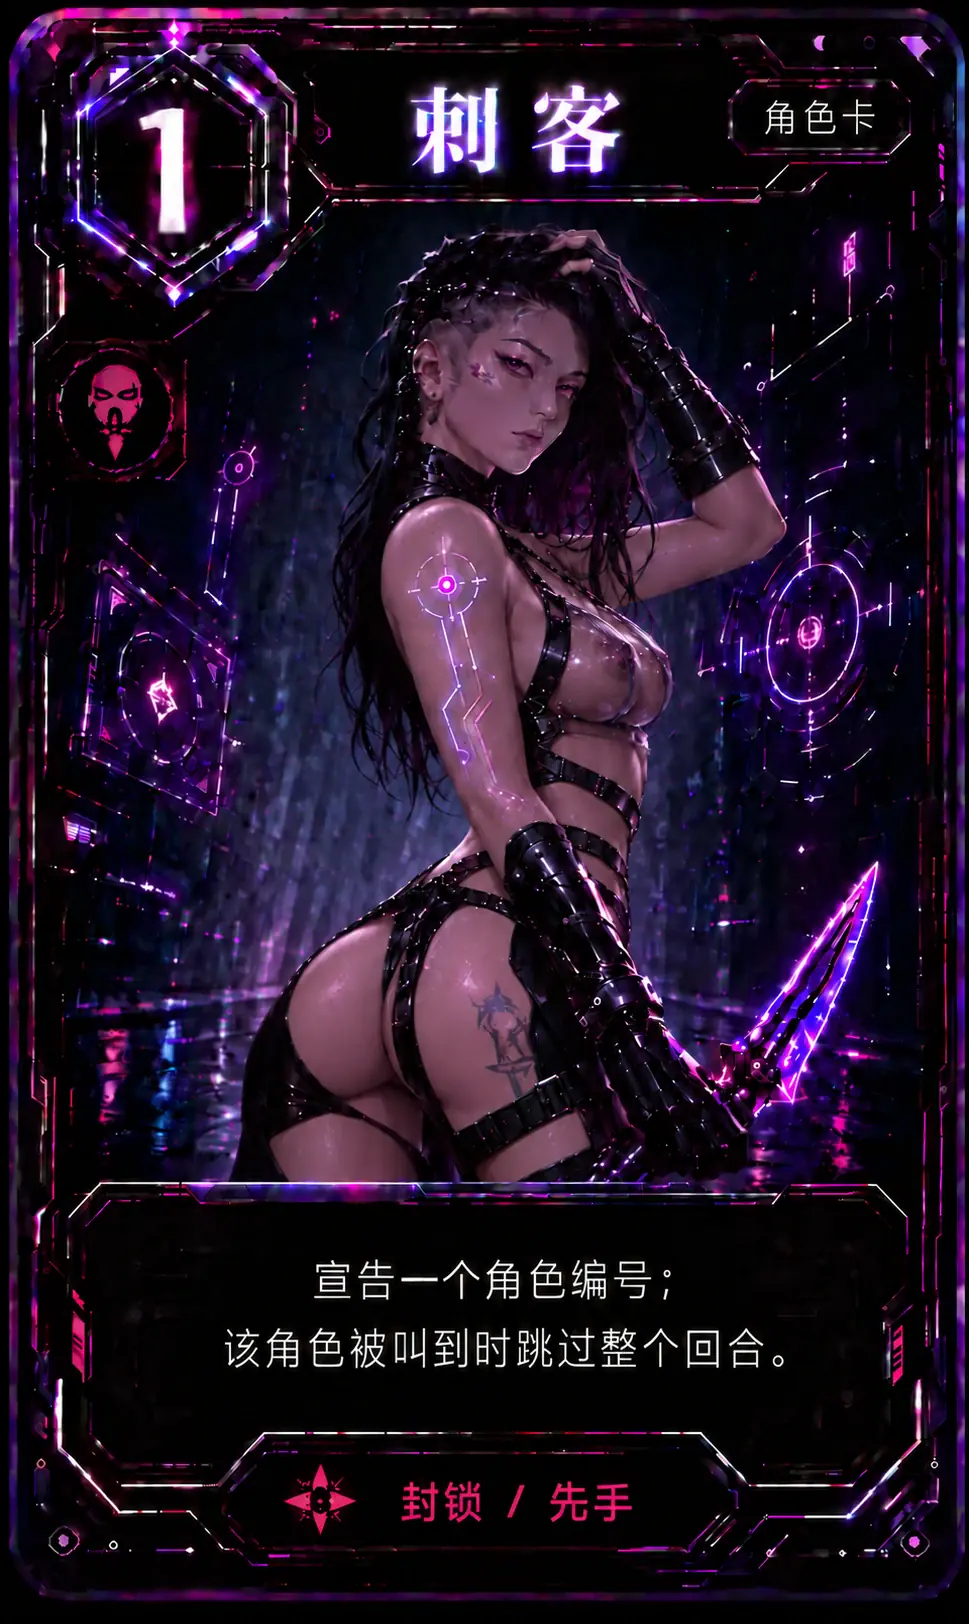
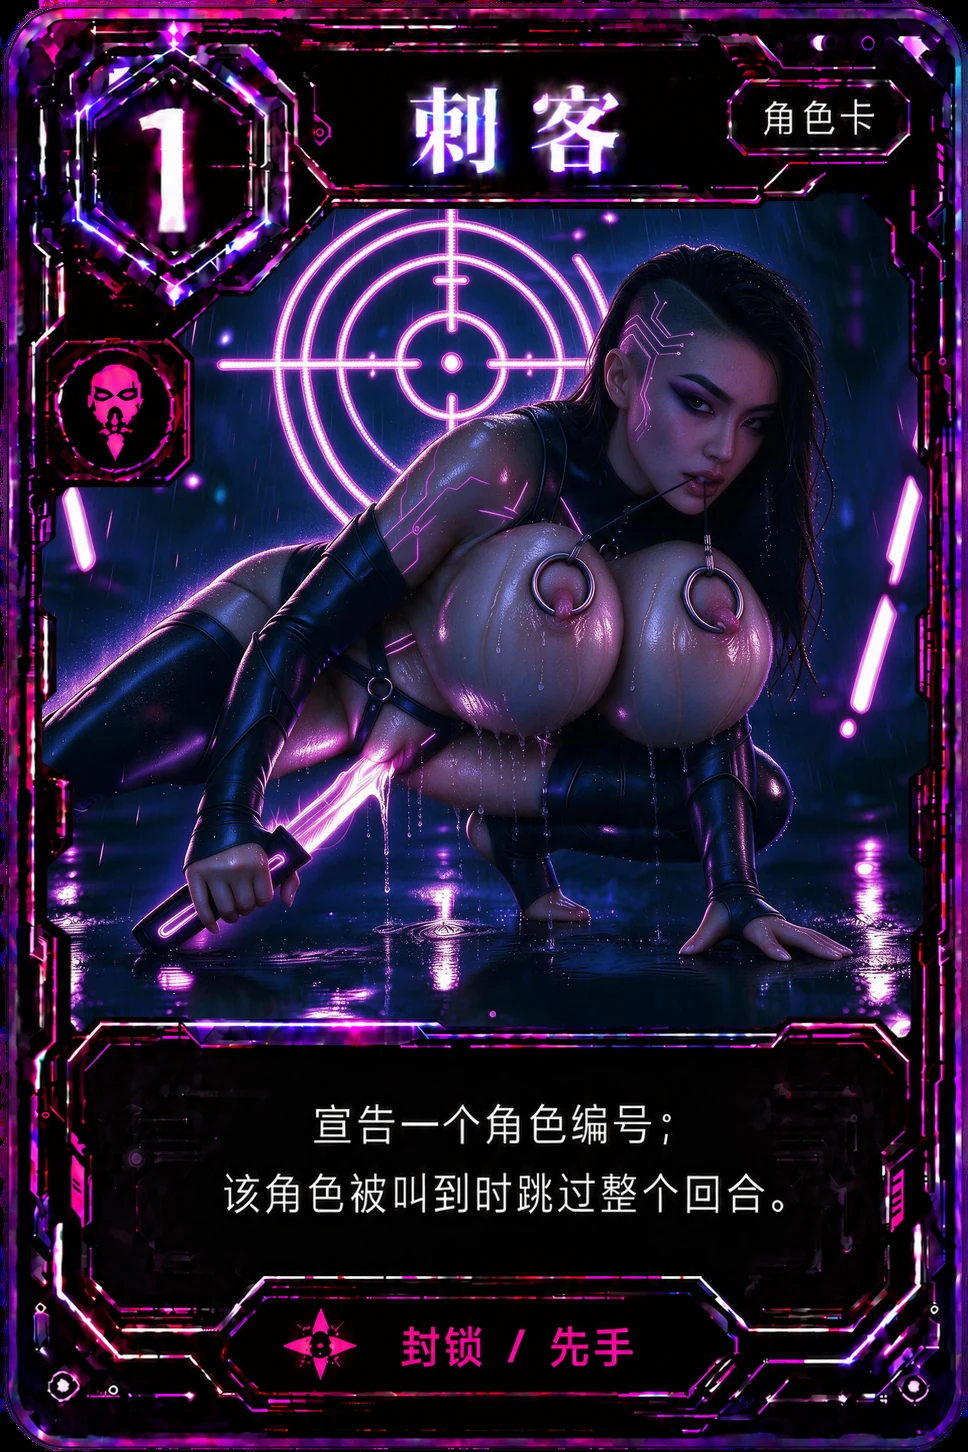
feat(theme): 更新刺客角色卡立绘

diff --git a/public/themes/neon/manifest.js b/public/themes/neon/manifest.js
@@ -24,13 +24,14 @@
   function variants(folder, key) {
     const currentRules = (folder === 'roles' && key === 'magistrate') ||
       (folder === 'districts' && key === 'keep');
+    const refreshedArtwork = folder === 'roles' && key === 'assassin';
     const updatedRules = folder === 'districts' &&
       ['ghost_town', 'laboratory', 'observatory', 'library', 'great_wall', 'quarry'].includes(key);
     // 墓地卡图曾把建造费用 5 错印成能力支付费用 1，多张角色卡已更新；
     // 魔术师恢复为原卡图；
     // 单独版本化，让已安装 PWA 绕过旧图片的 HTTP / Service Worker 缓存。
     const versioned = (folder === 'districts' && key === 'graveyard') ||
-      (folder === 'roles' && (key === 'blackmailer' || key === 'magician' || key === 'wizard' || key === 'bishop' || key === 'spy' || key === 'businessman' || key === 'diplomat' || key === 'king' || key === 'alchemist' || key === 'architect' || key === 'thief'));
+      (folder === 'roles' && (key === 'assassin' || key === 'blackmailer' || key === 'magician' || key === 'wizard' || key === 'bishop' || key === 'spy' || key === 'businessman' || key === 'diplomat' || key === 'king' || key === 'alchemist' || key === 'architect' || key === 'thief'));
     const version = folder === 'roles' && key === 'magician'
       ? '?v=3'
       : (folder === 'roles' && key === 'bishop'
@@ -47,7 +48,7 @@
     return {
       thumb: base + folder + '/thumb/' + key + '.webp' + (currentRules ? '?v=rules-20261012' : updatedRules ? '?v=rules-20261010' : version),
       // Full-resolution artwork was recompressed; version the URL so browser/PWA caches refresh it.
-      full: base + folder + '/full/' + key + '.webp' + (currentRules ? '?v=rules-20261012' : updatedRules ? '?v=rules-20261010' : '?v=optimized-1')
+      full: base + folder + '/full/' + key + '.webp' + (currentRules ? '?v=rules-20261012' : updatedRules ? '?v=rules-20261010' : refreshedArtwork ? '?v=assassin-20261029' : '?v=optimized-1')
     };
   }
 
